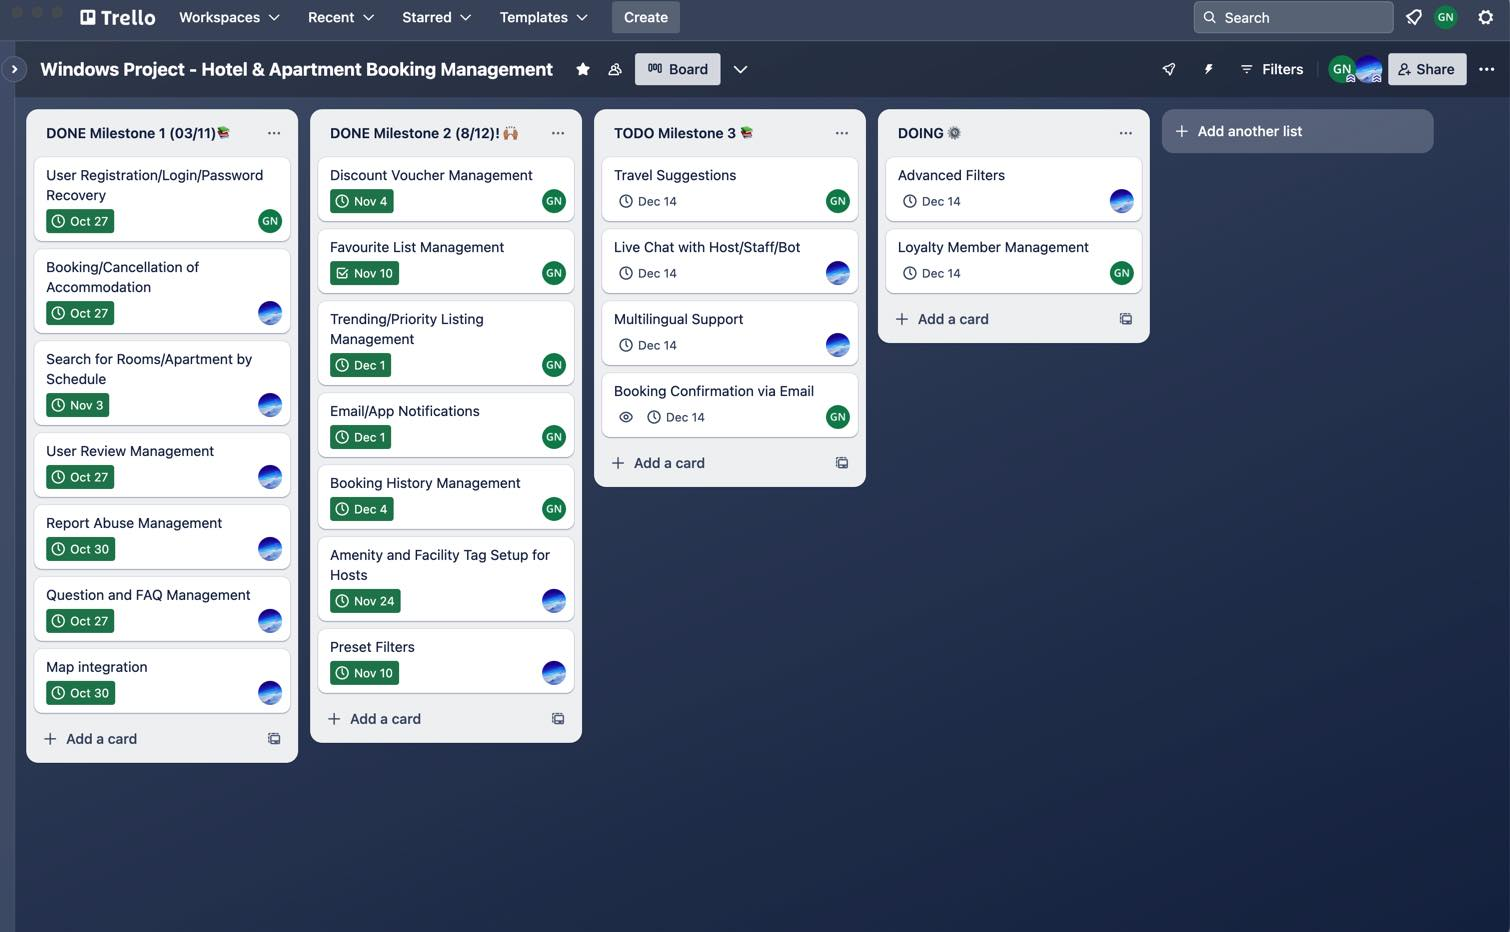
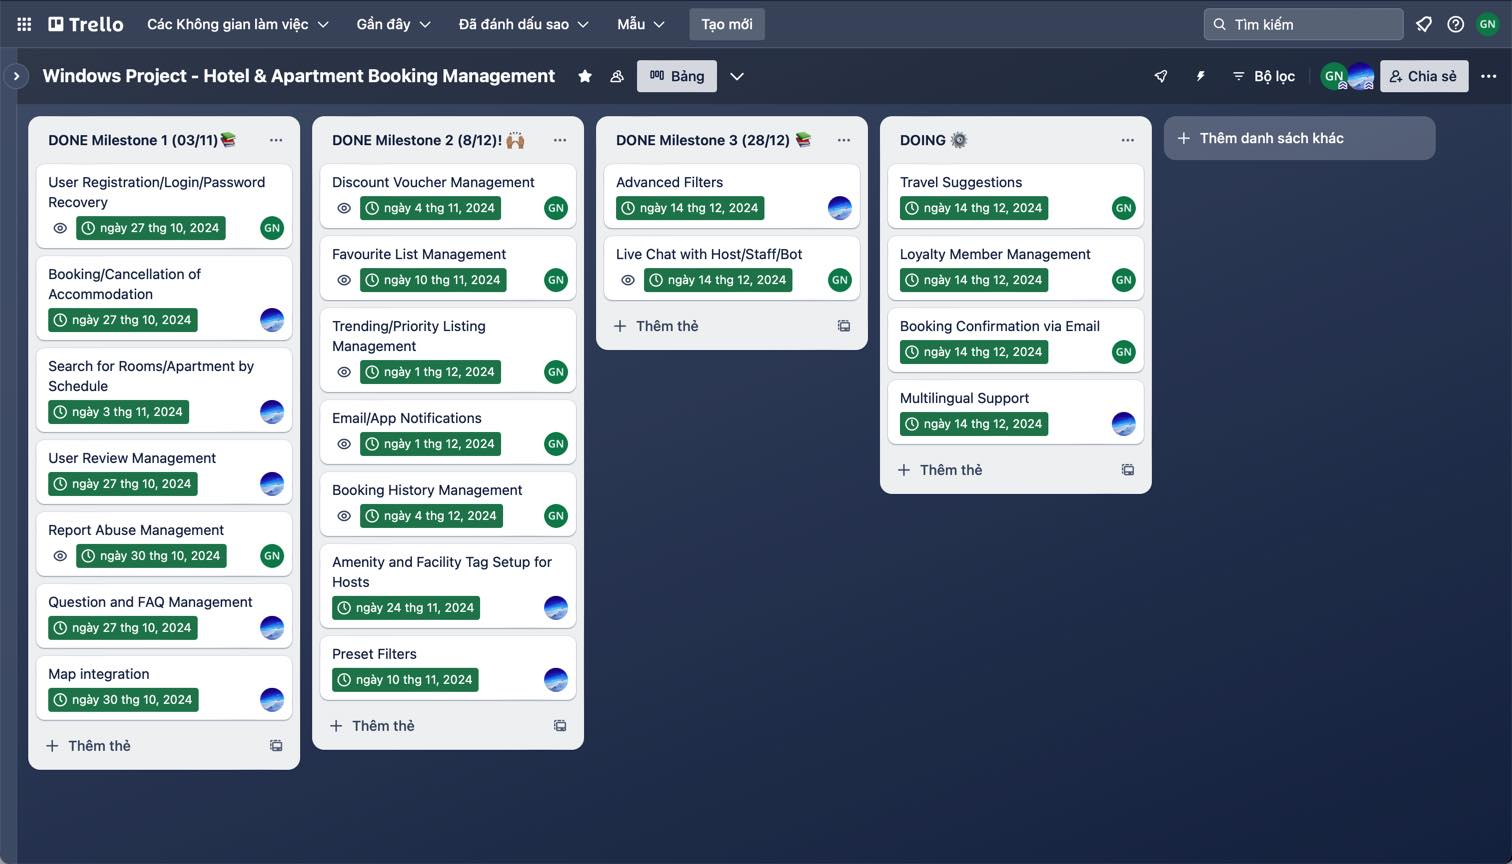
Update README.md

Changed region(s): [[0.0, 0.0, 1.0, 0.9062], [0.996, 0.9688, 1.0, 1.0]]

diff --git a/README.md b/README.md
@@ -216,8 +216,8 @@ We use all of your favourite material: Acrylic. We use Microsoft's icons and con
       <td><strong>Live Chat with Host/Staff/Bot</strong></td>
       <td>Chat system supports live chat with host, hotel staff or bot before booking.</td>
       <td style="text-align: center;">1h</td>
-      <td></td>
-      <td></td>
+      <td style="text-align: center;">Nguyen Long Giang<br>21120060</td>
+      <td style="text-align: center;">✅</td>
     </tr>
     <tr>
       <td><strong>Travel Suggestions</strong></td>
@@ -238,11 +238,11 @@ We use all of your favourite material: Acrylic. We use Microsoft's icons and con
 </table>
 
 > [!IMPORTANT]
-> ## Milestone II
-> ### Total Works Need To Be Done: **12h (for 2 members)**
-> ### Total Works Completed: **21h**
+> ## Milestone III
+> ### Total Works Need To Be Done: **20h (for 2 members)**
+> ### Total Works Completed: **23h**
 > ### Total By Assignment Per Member:
-> - **[21120060] Nguyen Long Giang: 8h**
+> - **[21120060] Nguyen Long Giang: 10h**
 > - **[21120082] Phan Quoc Huy: 13h**
 
 
